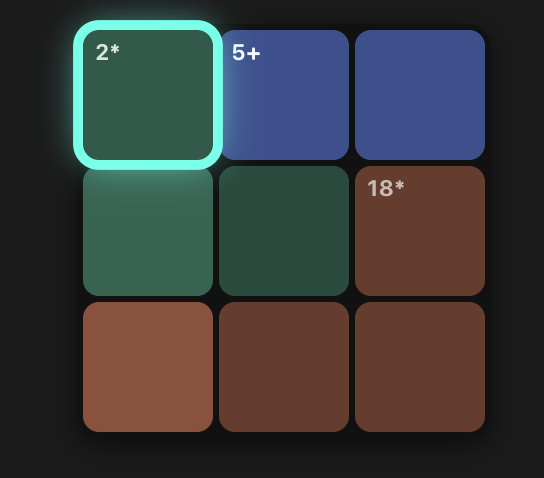
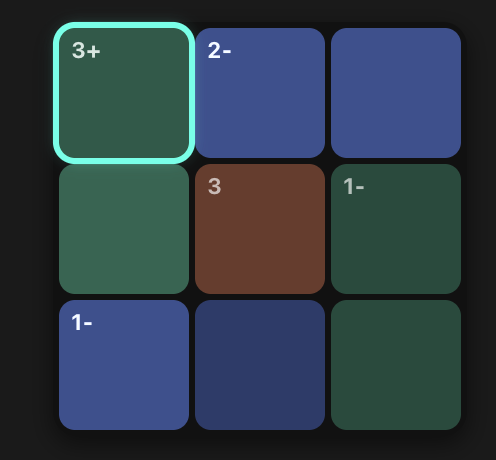
input changed

diff --git a/web/input.html b/web/input.html
@@ -339,11 +339,11 @@ TARGET OP SIZE R C R C ...</div>
             <h4>3x3 Example Breakdown</h4>
             <p style="font-size: 0.9rem; margin-bottom: 8px;">A 3x3 grid with 5 cages would look like this inside the `.txt` file:</p>
             <div class="code-block" style="margin-bottom: 0; padding: 12px;">3 5
-4 + 2 0 0 1 0
-2 / 2 0 1 0 2
-1 - 2 1 1 1 2
-6 * 2 2 0 2 1
-1 . 1 2 2</div>
+3 + 2 0 0 1 0
+2 - 2 0 1 0 2
+3 . 1 1 1
+1 - 2 1 2 2 2
+1 - 2 2 0 2 1</div>
           </div>
         </div>
       </div>
